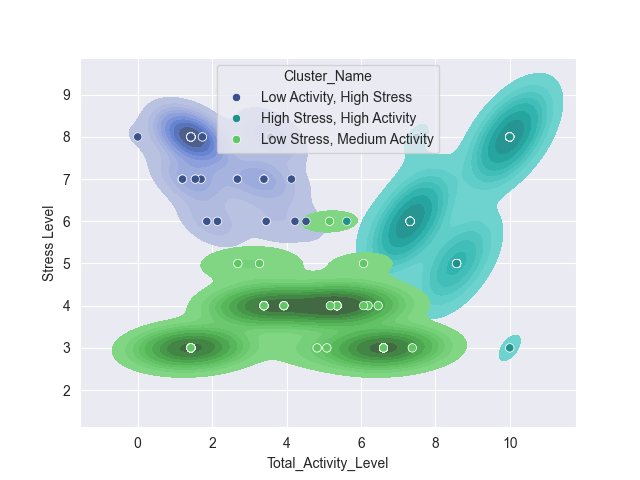
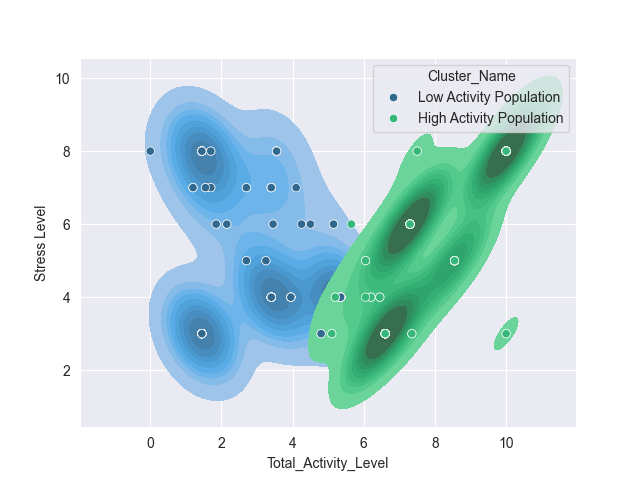
Updated notebook to show two main clusters rather than 3 clusters.

diff --git a/README.md b/README.md
@@ -19,11 +19,14 @@ Three distinct clusters were identified when analyzing the full dataset, suggest
 These results suggest that the relationship between activity and stress is more evident at the aggregate level than within specific occupations. Several occupations were also excluded due to insufficient sample sizes, limiting subgroup analysis.
 
 This project demonstrates exploratory analysis, clustering, and the importance of validating aggregate patterns at the subgroup level when working with real-world data.
+
 ## Final Observations
+
 - Looking at the scatter plots of the two sets of occupations, it looks like the two occupations with a positive correlation between stress and total activity levels are likely caused by outliers.
 - This indicates that although the 3 clusters I described early appear in aggregate, the hypothesis that they may be linked to occupation is not shown in this data.
 
 ## Actionable Observations
+
 - Efforts to improve sleep duration and sleep quality have a huge effect on overall health.
 
-Tools: Python, Pandas, Matplotlib/Seaborn, Scikit-learn, Jupyter
+Tools: Python, Pandas, Seaborn, Scikit-learn, Jupyter
